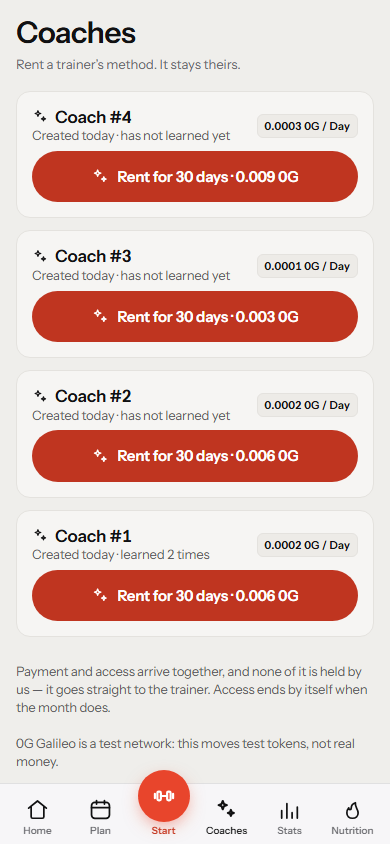
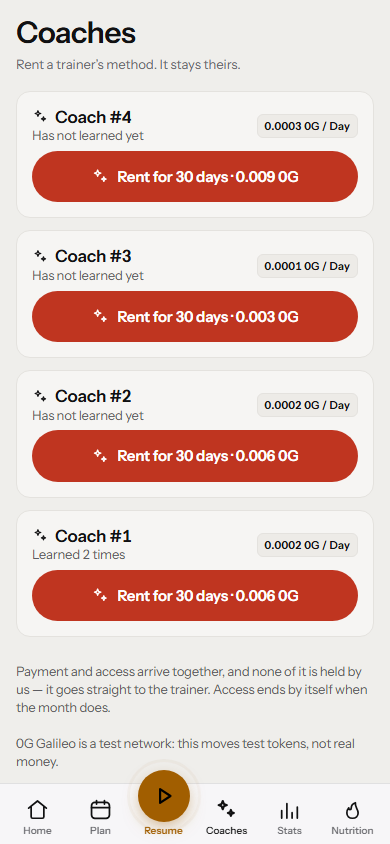
Show the product at the size it is used
The five app screenshots were 1440-pixel desktop captures squeezed into
three columns, where nothing in them could be read. The product is built for
a phone held in one hand between sets, so the captures are now taken at
390x844 on the live site, with real state: a set logged and the rest timer
running, nutrition targets worked out from an actual weigh-in, the market on
the build that no longer calls an unknown age today.

Captions rewritten to describe what is in the frame rather than what the
feature list says. A README also added its own sixty-second table, a short
section on who this is for, and four questions people ask - the last two
being the things a judge comparing entries looks for and has to hunt for
in most of them.

diff --git a/README.md b/README.md
@@ -55,12 +55,12 @@ Every line below has a command, a transaction, or a test behind it. Not one is a
 <table>
   <tr>
     <td><img src="assets/app/home.png" alt="Home — the week, your coach, body-weight trend and streak" width="100%"/></td>
-    <td><img src="assets/app/workout.png" alt="Active workout — plate math on the bar, warm-up ramp, per-set tracking" width="100%"/></td>
+    <td><img src="assets/app/workout.png" alt="Active workout — set logged, rest timer running, per-set tracking" width="100%"/></td>
     <td><img src="assets/app/nutrition.png" alt="Nutrition — targets computed from your own weigh-ins" width="100%"/></td>
   </tr>
   <tr>
-    <td align="center"><em>Your coach lives on the home screen, learning from every session</em></td>
-    <td align="center"><em>Plate math (<code>25 + 15 /side</code>), one-tap warm-up ramps, rest timer</em></td>
+    <td align="center"><em>Your coach lives on the home screen — created in one tap, no wallet, then learning from every session</em></td>
+    <td align="center"><em>Mid-set: 80 kg logged, set ticked, rest timer running — one hand, plate math and warm-up ramps a tap away</em></td>
     <td align="center"><em>Mifflin-St Jeor targets, hard safety bounds, IFCT foods</em></td>
   </tr>
   <tr>
